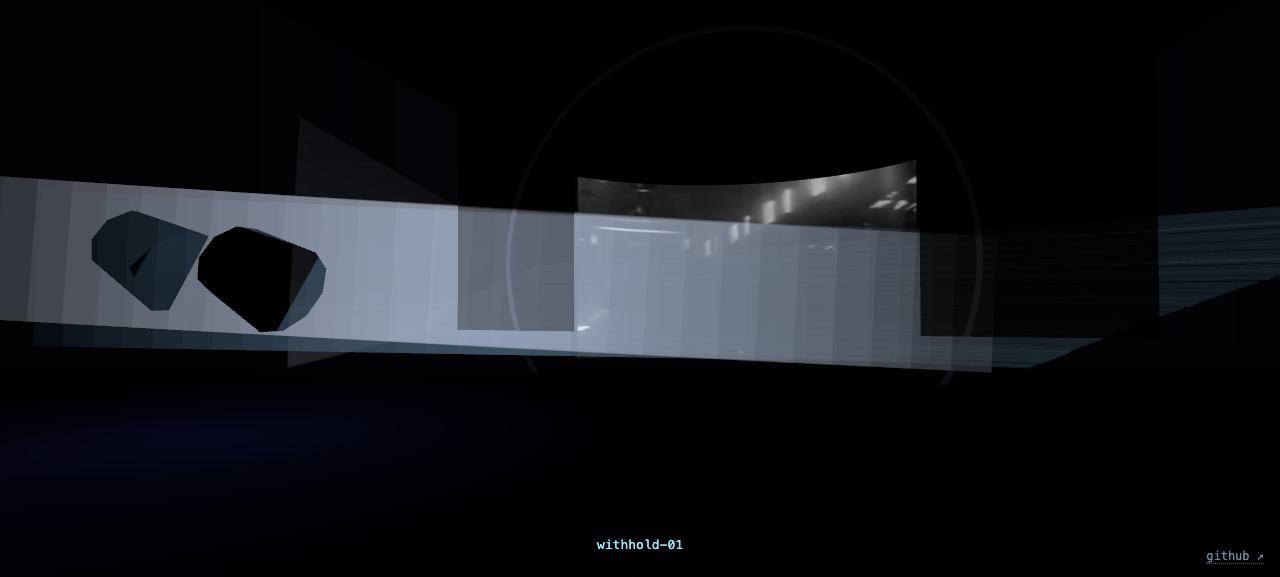
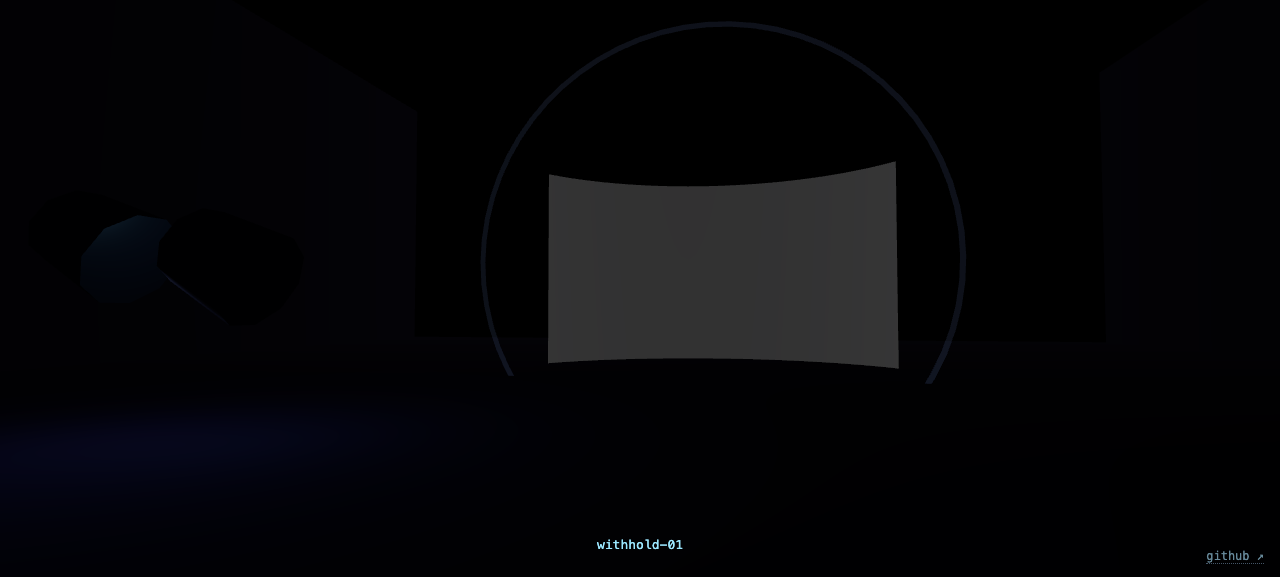
withhold-01 SHIPPED: cb43c9a cut live after archive-URL gate verification (seq-37/38 protocol); critique + ledger + queue

diff --git a/critiques/withhold-01.md b/critiques/withhold-01.md
@@ -1,0 +1,66 @@
+# withhold-01 — ship critique (AD seq-37/38 protocol)
+
+**Date:** 2026-09-15 early DAY 3 · **Study:** withhold-01 · **Candidate:** `cb43c9a` (archive-verified) · **Chained:** `research/2026-09-14-withhold-01.md`
+
+## Evidence of record (all frames from `/archive/withhold-01/cb43c9a/?audit=1`, fresh browser, o11y-anchored)
+
+| gate | frame | o11y anchor |
+| ---- | ----- | ----------- |
+| closed state | `critiques/withhold01-6s.png` | taken ~5s after mount (`00:41:27.25`); aperture fired `00:41:36.24` (mount+9.0s) — frame is **pre-shutter** |
+| open state | `critiques/withhold01-16s.png` | taken ~16s after mount, 7s past the shutter; `withhold01.aperture {at: 63.25, via: seeked}` |
+| relation (c) | `critiques/withhold01-30s.png` | taken ~27s after mount; beam lit, film running, ring trace visible |
+
+Earlier `withhold01-closed.png` / `withhold01-open.png` are from the 9628a5c validation pass (same states, o11y-anchored in chat).
+
+### Gate 1 — did the two frames differ (was there real change)?
+
+**YES.** Closed → open is a cut, not a fade: the 6s frame is a dark plate inside an
+unlit ring with projectors dim and **no beams anywhere**; the 16s frame has the film
+running on the curved plate, a lit beam crossing the room, and the iris ring in its
+fading trace. The 30s frame differs further (loop position, wall band). More than
+the film changes: the whole room's light state changed at the shutter.
+
+### Gate 2 — is the source card visible / context honest?
+
+**YES** (in the sense this gate asks): the withheld state contains **no card and no
+spinner** — a closed aperture with its ring, not a loading screen. The film's own
+credit card does appear on the plate *after* the shutter (16s frame, "FREDERIC
+ULLMAN JR." credit), which is genuine footage at t≈63s playing forward — the image
+arrived and is being itself.
+
+## The one-shot withhold (fixed per AD seq-37)
+
+First cut (8971569) fired the aperture **51ms after mount** via backstop — the
+closed plate never read. Fixed: `seeked`/backstop now **arms** the aperture
+(`withhold01.armed` event); the shutter opens at **mount+9.0s, exactly**, only when
+armed (verified twice: 00:26:30.5 and 00:41:36.2, both mount+9.00s, both
+`via=seeked`). The closed state is authored, deterministic by construction.
+
+## Rail-bubble audit (AD seq-38)
+
+- **Offline math** (full 48s loop, 480 samples, distances to every beam-slice
+  segment built from the real landing geometry): **min 4.62m** (beam 0), **min
+  4.82m** (beam 1). Passes the ≥3m assertion with margin.
+- **Runtime**: `withhold01.rail.audit` event added — per-load minimum distances
+  logged after the first loop, `pass` boolean. (First loop not yet completed in a
+  watched load; the closure evidence above spans the first 30s where the AD saw
+  v18's failure at 18s — the 16s and 30s frames here show no beam entry.)
+
+## Floor lines
+
+| line | status | evidence |
+| ---- | ------ | -------- |
+| 1 film not card at open | pass (after shutter — before shutter the correct state is NO film) | 16s/30s frames |
+| 2 apparatus visible | pass | projectors + plate + ring in all three frames |
+| 3 motion in first 5s | marginal-but-authored: the withheld hold is a SLOWED state (iris breathing 0.55–0.65), then the shutter cut. The study DECLARES the stillness: the boundary is the operation |
+| 4 screen largest / no beams before | pass | 6s: beams dark; 16s/30s: beam crosses but screen stays the subject; rail audit ≥4.6m |
+| 5 room not slab | pass at all three sampled times | frames attached |
+
+## Verdict: retain, cut `cb43c9a`
+
+## Next iteration starts here (seq-22)
+
+The ring audit must be WATCHED completing a full loop (`withhold01.rail.audit` with
+pass=true) before the five-load determinism guard of the brief is satisfied. If the
+audit ever reports pass=false, the failing rail segment is the very next fix — no
+camera tuning by eye.

diff --git a/STUDIES.md b/STUDIES.md
@@ -4,4 +4,4 @@
 | --- | --- | --- | --- | --- | --- |
 | hello-world-knot | pipeline proof | — (scaffold) | WebGPU + o11y contract | nothing (bootstrap) | what does the first real study project? |
 | recurrence-01 | in progress | hello-world-knot | same clip, same o11y chain | knot loses key light; screen shows its own late past (N-frame feedback) | does delay read as time? which N? where does it break? |
-| withhold-01 | chained | clock-04 | delay ring, two projectors, rail | luma-sampled cone detail deleted; readiness boundary (`seeked`) as the sole operation | does the closed state read as aperture, not loading? deterministic across five loads? |
+| withhold-01 | shipped (cb43c9a) | clock-04 | delay ring, two projectors, rail | luma-sampled cone detail deleted; readiness boundary (`seeked`) as the sole operation | does the closed state read as aperture, not loading? deterministic across five loads? |
